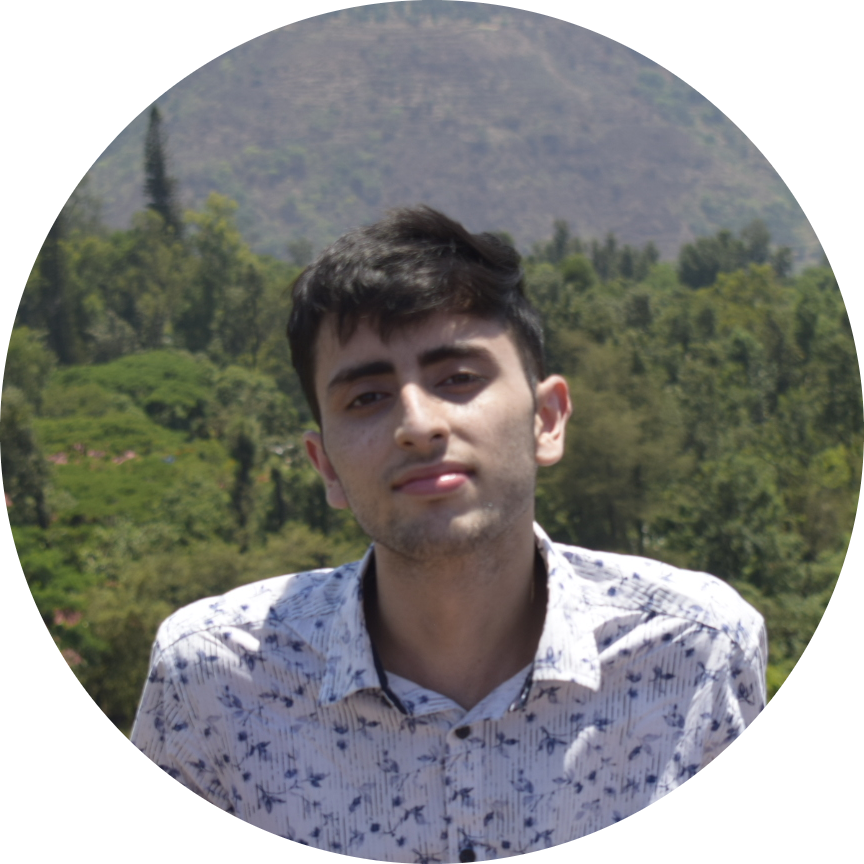
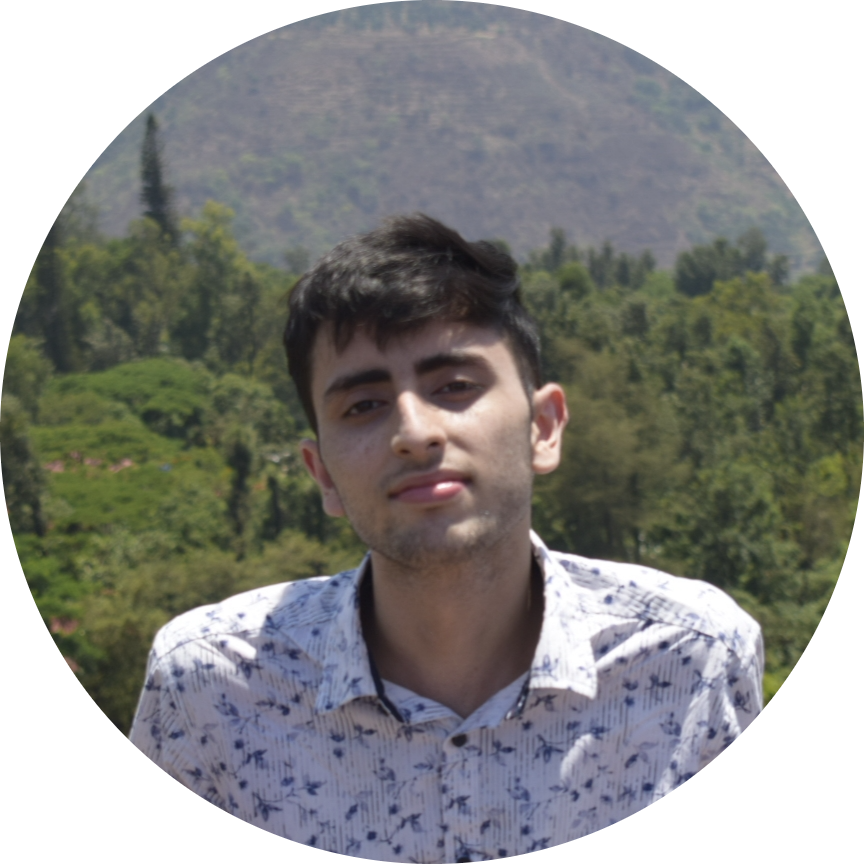
Add files via upload

diff --git a/index.html b/index.html
@@ -3,8 +3,8 @@
   <head>
     <meta charset="utf-8">
     <title>Arsh Raina</title>
-    <link rel="stylesheet" type="text/css" href="css/styles.css">
-    <link rel="icon" type="image/ico" href="images/favicon.ico">
+    <link rel="stylesheet" href="css/styles.css">
+    <link rel="icon" href="images/favicon.ico">
     <link rel="preconnect" href="https://fonts.googleapis.com">
     <link rel="preconnect" href="https://fonts.gstatic.com" crossorigin>
     <link href="https://fonts.googleapis.com/css2?family=Merriweather&family=Montserrat&family=Sacramento&display=swap" rel="stylesheet">
@@ -20,7 +20,7 @@
 
   <div class="middle-container">
   <div class="profile">
-    <img src="images/arshpic.png" alt="">
+    <img class="arsh-pic" src="images/arshpic.png" alt="">
     <h2>Namaste.</h2>
     <p class="intro">I am an engineering student from India who loves to code. I'm an open source enthusiast. The idea of entrepreneurship inspires me. I enjoy reading about startups and ongoing business wars.</p>
   </div>
@@ -43,7 +43,7 @@
     <h2>Get In Touch</h2>
     <h3>If you love music as much as I do.</h3>
     <p class="contact-message">Love music as much as I do? Let's talk about how awesome it is!</p>
-    <a class="btn" href="mailto:arshraina2003@gmail.com">CONTACT ME</a>
+    <a class="btn" href="mailto:arshraina2003@email.com">CONTACT ME</a>
   </div>
 </div>
 

diff --git a/css/styles.css b/css/styles.css
@@ -59,6 +59,12 @@ a:hover {
   margin: 100px 0;
 }
 
+.arsh-pic {
+  margin:auto;
+  width: 25%;
+  height: auto;
+}
+
 .bottom-container {
    background-color: #66bfbf;
    padding: 50px 0 20px;
